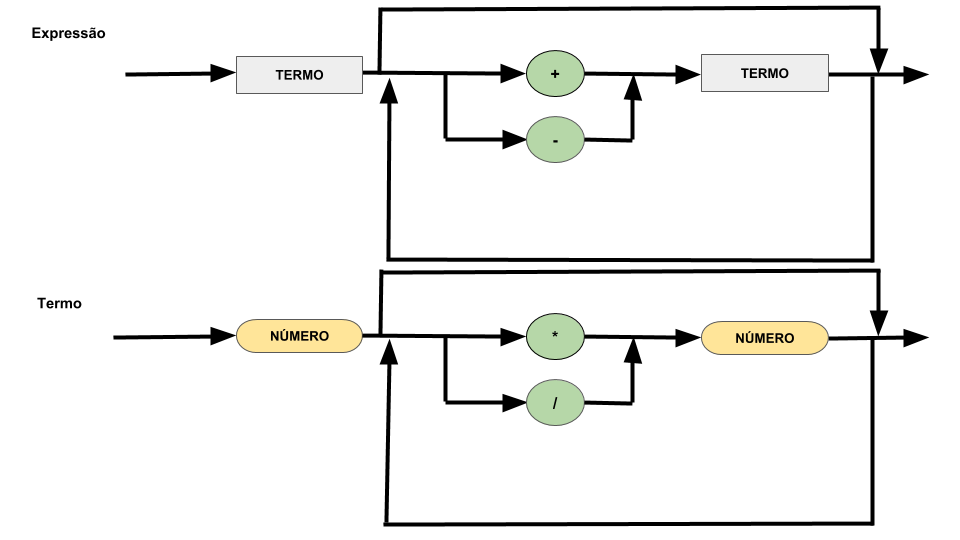
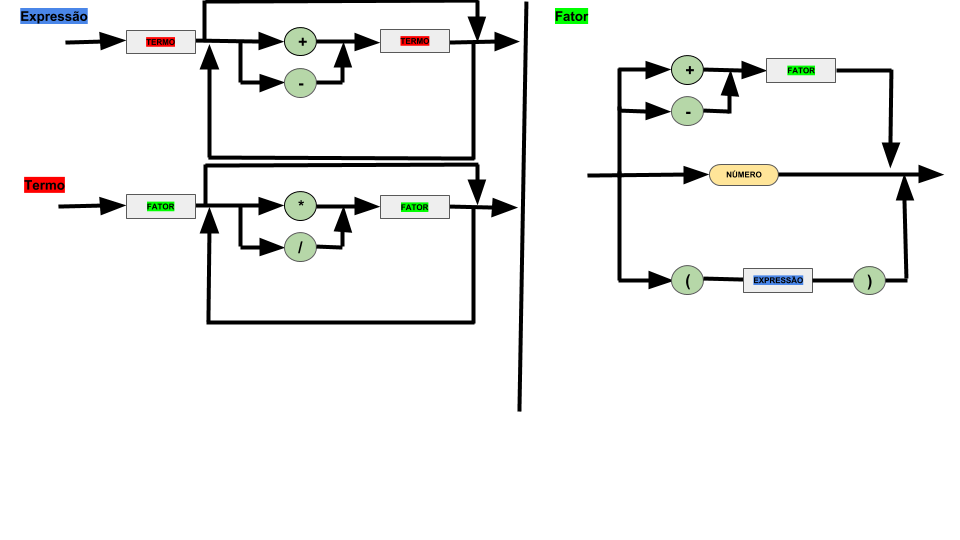
Atrualização com compilador 100% funcional

Changed region(s): [[0.0, 0.0, 1.0, 0.9778], [0.0312, 0.5333, 0.0938, 0.5926]]

diff --git a/compilador_BUNIAC.py b/compilador_BUNIAC.py
@@ -8,6 +8,8 @@ MINUS = "MINUS"
 MULT = "MULT"
 DIV = "DIV"
 EOF = "EOF" #end of file
+OPEN_PAR = "OPEN_PAR"
+CLOSE_PAR = "CLOSE_PAR"
 entrada = (str(input("Conta: ")))#entrada do usuário
 
 #Classe Token
@@ -86,6 +88,16 @@ class Tokenizador:
                 token = Token(MULT,"*")
                 self.posicao+=1
                 self.atual=token
+           
+            elif self.origem[self.posicao] == '(':
+                token = Token(OPEN_PAR,"")
+                self.posicao+=1
+                self.atual=token
+            
+            elif self.origem[self.posicao] == ')':
+                token = Token(CLOSE_PAR,"")
+                self.posicao+=1
+                self.atual=token
 
 #Classe Analisador(estática)
 #tokens (Tokenizador-ler código fonte e alimentar o Analisador)
@@ -94,7 +106,7 @@ class Analisador:
     #consome tokens do Tokenizador e análisa se a sintaxe está aderente à grámatica proposta
     def inicializar(texto):
         Analisador.tokens = Tokenizador(texto)#inicializa o atributo Tokenizador dentro da classe Analisador(classe estatica por isso é necessário)
-
+        Analisador.tokens.selecionarProximo()
 
     def analisarExpressao():
         resultado = Analisador.analisarTermo()
@@ -104,61 +116,54 @@ class Analisador:
 
             if (Analisador.tokens.atual.tipo == PLUS):
                 Analisador.tokens.selecionarProximo()
-
-                if (Analisador.tokens.atual.tipo == INT):
-                    resultado+=Analisador.tokens.atual.valor
+                resultado+=Analisador.analisarTermo()
 
             elif (Analisador.tokens.atual.tipo == MINUS):
                 Analisador.tokens.selecionarProximo()
-
-                if (Analisador.tokens.atual.tipo == INT):
-                    resultado-=Analisador.tokens.atual.valor
-            else:
-                raise Exception("Erro: Token não esperado:Deveria ser operador e veio número")
-            
-            Analisador.tokens.selecionarProximo()
-
+                resultado-=Analisador.analisarTermo()
         return resultado
 
     def analisarTermo():
+        resultado = Analisador.analisarFator()
+
+        while (Analisador.tokens.atual.tipo == MULT or Analisador.tokens.atual.tipo == DIV):
+            if (Analisador.tokens.atual.tipo == MULT):
+                Analisador.tokens.selecionarProximo()
+                resultado*=Analisador.analisarFator()
+
+            elif (Analisador.tokens.atual.tipo == DIV):
+                Analisador.tokens.selecionarProximo()
+                resultado//=Analisador.analisarFator()
+        return resultado
+    
+    def analisarFator():
         resultado = 0
-        Analisador.tokens.selecionarProximo()#first
-        #print(Analisador.tokens.atual.valor)
         if Analisador.tokens.atual.tipo == INT:
             resultado = Analisador.tokens.atual.valor
             Analisador.tokens.selecionarProximo()
 
-            while (Analisador.tokens.atual.tipo == MULT or Analisador.tokens.atual.tipo == DIV):
-
-                if (Analisador.tokens.atual.tipo == MULT):
-                    Analisador.tokens.selecionarProximo()
-
-
-                    if (Analisador.tokens.atual.tipo == INT):
-                        resultado*=Analisador.tokens.atual.valor
-                    else:
-                        raise Exception("Erro: Token não esperado:Deveria ser operador e veio número")
-
-
-                elif (Analisador.tokens.atual.tipo == DIV):
-                    Analisador.tokens.selecionarProximo()
-
-                    if (Analisador.tokens.atual.tipo == INT):
-                        resultado//=Analisador.tokens.atual.valor
-                    else:
-                        raise Exception("Erro: Token não esperado:Deveria ser operador e veio número")
-                Analisador.tokens.selecionarProximo()
-        # elif (comentario ==True):
-        #     pass
+        elif (Analisador.tokens.atual.tipo == PLUS):#Este plus é unário ( é um sinal de +)
+            Analisador.tokens.selecionarProximo()
+            resultado=Analisador.analisarFator() # 1* Analisador.analisarFator()
+        
+        elif (Analisador.tokens.atual.tipo == MINUS):#Este minus é unário ( é um sinal de - ex: -2+1= -1)
+            Analisador.tokens.selecionarProximo()
+            resultado=-Analisador.analisarFator() # -1 *Analisador.analisarFator()
+    
+        elif (Analisador.tokens.atual.tipo == OPEN_PAR):
+           Analisador.tokens.selecionarProximo()
+           resultado = Analisador.analisarExpressao()
+           if (Analisador.tokens.atual.tipo == CLOSE_PAR):
+               Analisador.tokens.selecionarProximo()
+           else:
+                raise Exception("Erro: Parentesês não fecha") 
         else:
-            raise Exception("Erro: Token não esperado:Deveria ser numero e veio algo diferente")
+             raise Exception("Erro: Expressão inválida")
         return resultado
+
 
 def main():
     try:
-        # entrada = (str(input("Conta: ")))
-        #" /* bla */ 1 /* bla */" (teste não funciona)
-        #  1  /*bla*/  - 2 (teste não funciona)
         Analisador.inicializar(entrada)
         print("Resultado:",Analisador.analisarExpressao())
 
